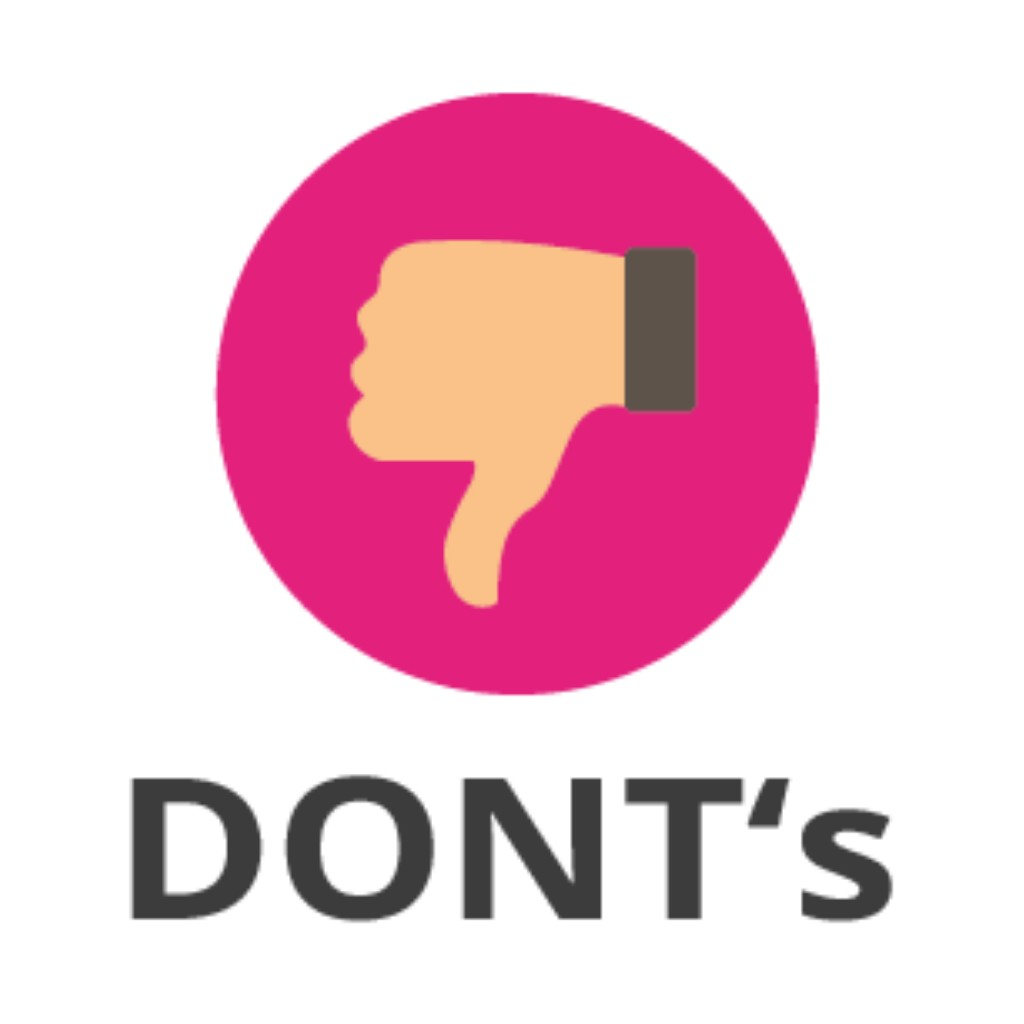
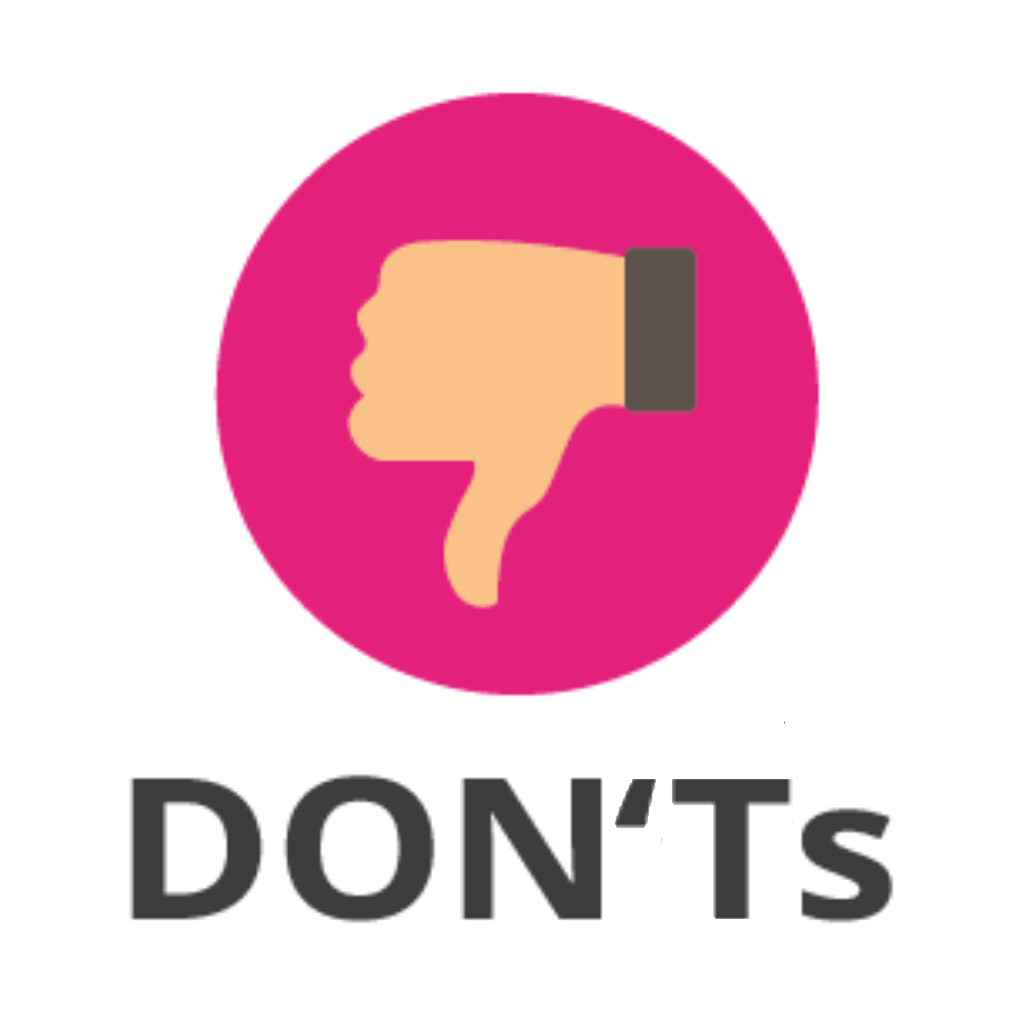
update

Changed region(s): [[0.5938, 0.75, 0.7812, 0.9062]]

diff --git a/src/pages/lesson-view/lesson-view.ts b/src/pages/lesson-view/lesson-view.ts
@@ -65,6 +65,7 @@ export class LessonViewPage {
         <li>Asked to the supervised to make sure you are doing the job correctly. </li>
         <li>Report all the risks, close to misses and injuries (no matter how small) to your supervisor. </li>
         </ul>
+        <p>Source: <i>http://www.pacu.org.ph/wordpress/wp-content/uploads/2017/06/MsRuthRodriguez_DOLE-BLE-ESPRD-K12WIP.pdf</i></p>
       `
       console.log(this.content);
     } else   if(this.title === 'Confidentiality in the Workplace') {
@@ -85,6 +86,7 @@ export class LessonViewPage {
       <p>Confidential management information includes discussion about employee relations issues, disciplinary actions, impending layoffs/reductions-in-force, terminations, workplace investigations of employee misconduct, etc. While disclose of this information isn’t necessarily “illegal”, it is almost always counterproductive and can seriously damage the collective “psyche” of a workplace</p>
       <h4>BUSINESS INFORMATION:</h4>
       <p>We oftentimes refer to confidential business information as “proprietary information” or “trade secrets”. This refers to information that’s not generally known to the public and would not ordinarily be available to competitors except via illegal or improper means. Common examples of “trade secrets” include manufacturing processes and methods, business plans, financial data, budgets and forecasts, computer programs and data compilation, client/customer lists, ingredient formulas and recipes, membership or employee lists, supplier lists, etc. “Trade secrets” does not include information that a company voluntarily gives to potential customers, posts on its website, or otherwise freely provides to others outside of the company</p>
+      <p>Source: <i>https://workspirited.com/confidentiality-in-workplace</i></p>
       `
     
     }  else if(this.title === 'Effective Conflict Resolution') {
@@ -123,7 +125,11 @@ export class LessonViewPage {
         <p>Demontrating respect for team members rather than resorting to blame game
         For any team to be successful it is criticalthat the team members respect each other.
         Keeping team issue within team
-        Talk issues within the team, talking outside results in conflict escalation</p>                                                        
+        Talk issues within the team, talking outside results in conflict escalation</p>
+        <p>Source:</p>
+        <p><i>https://www.notredameonline.com/resources/negotiations/6-simple-workplace-conflict-resolution-techniques-2/</i></p>
+        <p><i>https://www.slideshare.net/Veron0320/effective-conflict-resolution-and-teamwork-skills</i></p>
+        
 
 
       `
@@ -144,8 +150,10 @@ export class LessonViewPage {
           <p>In this part, you may give an overview of what your portfolio is all about.  You should discuss the things which are expected to be read in your manuscript. In addition, you may give an impression on what you experienced in your practice teaching/work immersion</p>
           <h4>Getting Acquainted with the Business/Office</h4>
           <p>This part contains an introduction about the business/office- its history, environment, staff and the like. Pictures with captions are also required on this part. </p>
-          <h4>Goals and Objectives of the Business/Office<h4>
+          <h4>Goals and Objectives of the Business/Office</h4>
+
           <p>This part contains the goals and objectives of the business/office</p>
+          
           <h4>Organization/Administration of the Business/Office</h4>
           <p>This part contains the organizational structure of the business/office. Pictures of the administrators and staff are mandatory.</p>
           <h4>Business/Office Environment</h4>
@@ -205,7 +213,7 @@ export class LessonViewPage {
         <p>Barangay Clearance</p>
         <p>Daily Time Record</p>
       </ul>
-     
+      <p>Source: <i>https://www.datafilehost.com/d/e9a8bf96?fbclid=IwAR2eGVnNx1MFfU9KIu2TYhuIYEqhNeGe2-b2MxoOldh4Qmaekjb7ptTG_ws</i></p>
 
       `
     } else if(this.title === 'Resume Format') {
@@ -235,6 +243,7 @@ export class LessonViewPage {
           <li>Training/ Seminars</li>
           <li>Character references</li>
         </ul>
+        <p>Source: <i>https://depedshs.blogspot.com/2017/10/shs-work-immersion-resume-format.html</i></p>
       `
     } else if(this.title === 'Application Letter') {
       this.content = `
@@ -314,16 +323,77 @@ export class LessonViewPage {
           Alternatively, you can print out your letter and sign your name by hand if you wish. Although with this method, you will have to scan your letter back into your computer.A signature is not always required.</li>
 
 
-        </ol>        
+        </ol>
+        <p>Source: <i>https://www.wikihow.com/Write-a-Letter-of-Application-for-a-Job</i></p>
       `
     } else {
       this.content = `
         <h4> Barangay Clearance </h4>
         <img src="assets/imgs/requirements/BARANGAY CLEARANCE.jpg">
+        <p>Before you can get a Postal ID or a Mayor’s Permit, you have to get a Barangay Clearance first. This is one of the documents that is in demand in transacting with government offices. Moreover, this is commonly requested for ID application, employment requirements, Affidavits, and other legal transactions.</p>
+        <p>This document certifies that the person is a good resident    in a barangay and has a good moral character. It also signifies that the applicant does not have any negative record. No wonder, this is necessary in any official transaction.</p>
+        <h5>Requirements</h5>
+        <p>There are a few requirements for Barangay Clearance application. Here they are:</p>
+        <ul>
+          <li>Application form</p>
+          <li>Application fee (this varies per Barangay)</p>
+          <li>Recent Community Tax Certificate or Cedula</p>
+        </ul>
+        <h5>Steps</h5>
+        <p>Here are the steps of the application procedure:</p>
+        <ul>
+          <li>Go to your place’s Barangay Hall. Inform the officer that you are applying for a Barangay Clearance.</li>
+          <li>State the reason why you need a Barangay Clearance (ID requirement, employment, Postal ID, etc.).</li>
+          <li>Present your Cedula. You can also get this from the Barangay.</li>
+          <li>Pay the application and processing fees.</li>
+          <li>Wait for your Barangay Clearance to be released.</li>
+        </ul>
+        <p>You can get your Barangay Clearance in just a day. The fees are also minimum. Therefore, you do not have to worry that application for this can cause you stress. You can go to the Barangay Hall or Municipal Hall in your place to get more information regarding the process.</p>
+        
         <h4> Cedula </h4>
         <img src="assets/imgs/requirements/CEDULA.png">
-        <h4>Police Clearance<h4>
+        <p>A Community Tax Certificate (CTC), also known as Cedula, is issued to every individual or corporation upon payment of the community tax.  Every Filipino who is at least 18 years old and has been regularly employed for at least 30 consecutive working days must have his own cedula.  Business owners, real property owners, and all others who may be required by law must also apply for a cedula.</p>
+        <h5>How to get a Cedula:</h5>
+        <ul>
+          <li>Go to your local government office (barangay, municipal, or city hall) where CTCs are issued.</li>
+          <li>Fill out the application slip, submit, and pay the required amount.  The fee will depend on how much salary you are going to declare on the application slip.  Wait for the issuing officer to give you your CTC.</li>
+          <li>Sign and affix your thumbprint on the spaces provided on the CTC.</li>
+          <li>The Cedula is valid until the last day of the year when it was acquired.</li>
+        </ul>
+        
+        <h4>Police Clearance</h4>
         <img src="assets/imgs/requirements/POLICE CLEARANCE.jpg">
+
+        <p>A police clearance is one of the essential documents requested by a government agency or an employer to ensure that the applicant has no criminal record.</p>
+        <p>Depending on the person or agency requesting it, <b>you may be asked to get a police clearance either from your place of residence or place of work.</b></p>
+        <p>A police clearance issued in your place of residence can prove that you didn’t commit any crime in the barangay or town where you live.</p>
+        <p>Since the barangay clearance already serves this purpose, most employers ask their applicants to apply for a police clearance in the city where the company is located.</p>
+        
+        <p>How to get police clearance in 6 simple steps.</p>
+        <ul>
+          <li>
+            Know the police clearance requirements.
+            <ul>
+              <li>Personal appearance.</li>
+              <li>Police clearance application form.</li>
+              <li>Community tax certificate (cedula) and/or Barangay clearance.</li>
+              <li>Police clearance fee.</li>
+            </ul>
+          </li>
+          <li>Go to your local municipal office/city hall/city municipal police station.</li>
+          <li>Pay the police clearance fee at the treasurer’s office/treasury department.</li>
+          <li>Return to the police station for data encoding, photo capture, and biometrics.</li>
+          <li>Wait for your police clearance to be released.</li>
+        </ul>
+        <br/>
+        <br/>
+        <br/>
+
+        <p>Source:</p>
+        
+        <p><i>https://filipiknow.net/police-clearance/amp/?fbclid=IwAR15JvB-3tKEoZi7PYHSUyoVnCLBvqpPw0eKpYlXkrl1y49vZD96834KtRQ</i></p>
+        <p><i>https://faq.ph/how-to-get-a-barangay-clearance-in-the-philippines/?fbclid=IwAR2eGVnNx1MFfU9KIu2TYhuIYEqhNeGe2-b2MxoOldh4Qmaekjb7ptTG_ws</i></p>
+        <p><i>https://mastercitizen.wordpress.com/tag/how-to-get-a-cedula/</i></p>
       `
     }
   }

diff --git a/src/pages/slider/slider.ts b/src/pages/slider/slider.ts
@@ -38,22 +38,22 @@ export class SliderPage {
           { file: 'dos/DO4.png',description: 'Dress appropriately and adopt a similar degree of formality.'}, 
          { file: 'dos/DO5.png', description: 'Offer to help others if there’s aything you might be able to do after you finish your task.'}, 
          { file: 'dos/DO 6.jpg', description: 'Follow the organization rules and regulations.'}, 
-         { file: 'dos/do7a.png', description: 'Stay positive and enjoy your work immersion.'}, 
+         { file: 'dos/doa7.jpg', description: 'Stay positive and enjoy your work immersion.'}, 
          { file: 'dos/do8.png', description: 'Be familiarize in your work place.'}, 
          { file: 'dos/do9.jpg', description: 'Do have a good communication with the employees.'}, 
          { file: 'dos/do10.png', description: 'Acquire or improve interpersonal skills' }]
     } else if(type === 'dont') {
-      this.title = "Dont's";
+      this.title = "Don'ts";
       this.slides = [
         { file: 'donts/dt1.jpg',description: "Don't sleep during working hours."},
         { file: 'donts/dt 2.jpg',description: "Don't be late on work."}, 
         { file: 'donts/dt3.png',description: "Dont make face and complained with the task given to you."},  
-        { file: 'donts/dt 4.png',description: "Don't be afraud to asked question related to your work specially if it's important."},  
+        { file: 'donts/dt 4.png',description: "Don't be afraid to asked question related to your work specially if it's important."},  
         { file: 'donts/dt 5.jpg',description: "Don't try use equipments without the authorization of the staffs."},  
         { file: 'donts/dt 6.jpg',description: "Don't use gadget during working hours."},  
         { file: 'donts/dt7.jpeg',description: "Don't combine work and personal activities including having excessive visitors at work and personal issues during work time."},  
         { file: 'donts/dt 8.jpeg',description: "Don't complain if being bored and expect to stay until the end of the working day."},  
-        { file: 'donts/dt1.jpg',description: "Don't try to court favour with your boss or immediate supervisors."},  
+        { file: 'donts/dt 9.jpg',description: "Don't try to court favour with your boss or immediate supervisors."},  
         { file: 'donts/dt 10.jpg',description: "Don't engage in idle gossip about other colleagues or your boss or 'bad mouth' them."},  
       ]
     } else if(type === 'Safety in the Workplace') {
@@ -66,7 +66,8 @@ export class SliderPage {
         {file: 'safetyworkplace/5.jpg', description: 'In case of an emergency, you will need to hurry, easy access to the exits. It is also recommended to keep clear access to the device shutoffs in case you need to quickly stop them from working.', title: 'Keep the emergency exits convenient'},
         {file: 'safetyworkplace/6a.png', description: 'To the supervisor information in the workplace about the safeness and hazard risk they must know by the supervisor. They are obligated to ensure the safeness of their employees to have a safe environment and taking care the dangerous condition in the work place.', title: 'Report dangerous (harmful) condition' },
         {file: 'safetyworkplace/7.jpg', description: 'Use wheelbarrow, conveyor belt, crank or forklift to save a time to lift something that is really heavy during your workday.', title: 'Use mechanical aids wherever possible'},
-        {file: 'safetyworkplace/8.jpg', description: 'If you do not have the proper safety equipment for a job, you can get injured. Depending on work, equipment such as earplugs, earmuffs, hard hats, glass mirrors, gloves or a full-face mask greatly reduces the risk of damage to the workplace.', title: 'Wear the Correct Safety Equipment'}
+        {file: 'safetyworkplace/8.jpg', description: 'If you do not have the proper safety equipment for a job, you can get injured. Depending on work, equipment such as earplugs, earmuffs, hard hats, glass mirrors, gloves or a full-face mask greatly reduces the risk of damage to the workplace.', title: 'Wear the Correct Safety Equipment'},
+        {file: 'source.png', description: 'https://www.arbill.com/arbill-safety-blog/bid/182469/top-10-workplace-safety-tips-every-employee-should-know'},
       ]
     } else {
       this.title = 'Work Ethics';
@@ -156,6 +157,9 @@ export class SliderPage {
         Do what’s asked the first time, 
         
         Accept and acknowledge an individuals talents and knowledge 
+        `},
+        {file: 'source.png', description: `
+          https://www.slideshare.net/cokyfauzialfi/work-ethics-a-being-professional
         `},
 
 

diff --git a/src/pages/defition-terms/defition-terms.html b/src/pages/defition-terms/defition-terms.html
@@ -41,4 +41,6 @@
         <strong>Workplace Immersion Venue</strong> is the place where work immersion is conducted. It shall conform with the law and the rules and regulations on safety, appropriateness for learning, and availability of facilities and equipment, which are issued by the DepEd (DO No. 40 s. 2015), Technical Education and Skills Development Authority (TESDA), Department of Labor and strongployment (DOLE), Commission on Higher Education (CHED), and other relevant government agencies. Examples of work immersion venues include offices, factories, shops, and project sites.
     </li>
   </ul>
+  <p>Source: <i>http://www.deped.gov.ph/wp-content/uploads/2017/06/DO_s2017_030.pdf</i></p>
+  
 </ion-content>

diff --git a/src/pages/desc-program/desc-program.html b/src/pages/desc-program/desc-program.html
@@ -45,4 +45,6 @@
       <li>Organizing work immersion opportunities for learners that are consistent with the diverse human resource requirements of partner institutions for work immersion; and</li>
       <li>Articulating the scope and limits of work immersion in the context of basic education whe building relationships with work immersion partners.</li>
     </ol>
+    <p>Source: <i>http://www.deped.gov.ph/wp-content/uploads/2017/06/DO_s2017_030.pdf</i></p>
+    
 </ion-content>

diff --git a/src/pages/rationale/rationale.html b/src/pages/rationale/rationale.html
@@ -30,6 +30,7 @@
     <li>Senior High Schools run by state colleges and universities, and local universities and colleges</li>
     <li>Technical-Vocational Institutions</li>
   </ul>
+  <p>Source: <i>http://www.deped.gov.ph/wp-content/uploads/2017/06/DO_s2017_030.pdf</i></p>
 </ion-content>
 <!-- <ion-footer>
   <button *ngIf="isPrev" float-left color="light" ion-button clear>Previous</button>

diff --git a/src/pages/home/home.html b/src/pages/home/home.html
@@ -1,7 +1,7 @@
 <ion-header no-border>
   <ion-navbar color="primary" transparent>
     <ion-title>
-      Work Immerssion
+      Work Immersion
     </ion-title>
   </ion-navbar>
 </ion-header>
